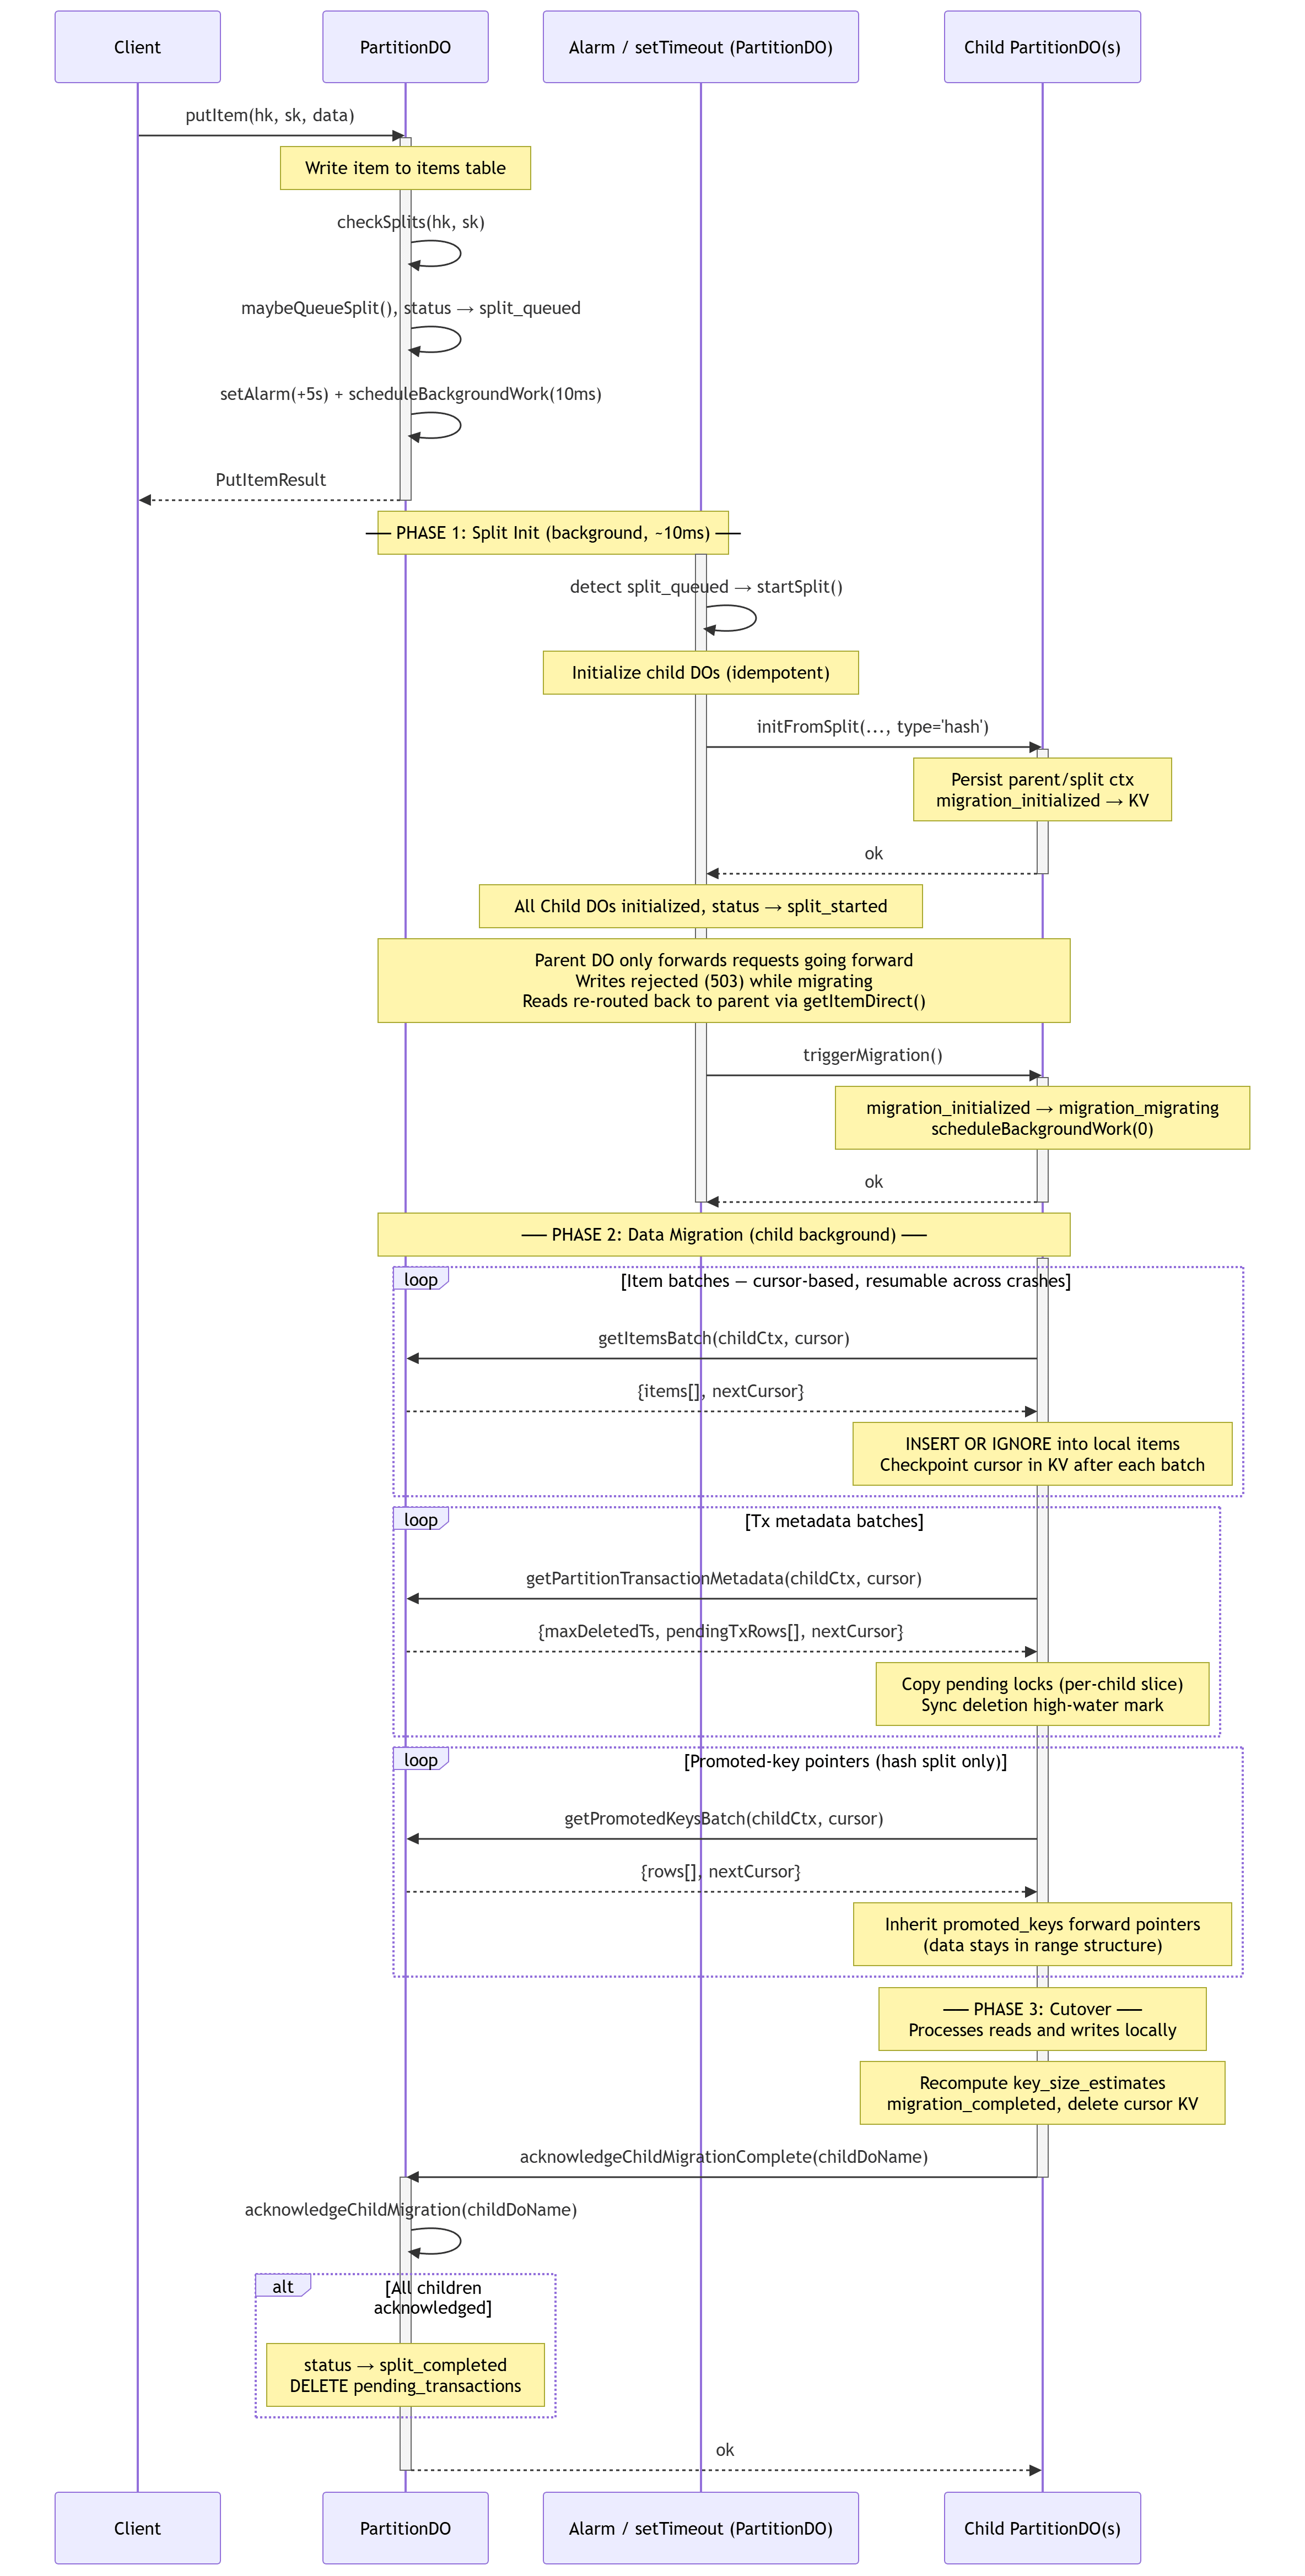
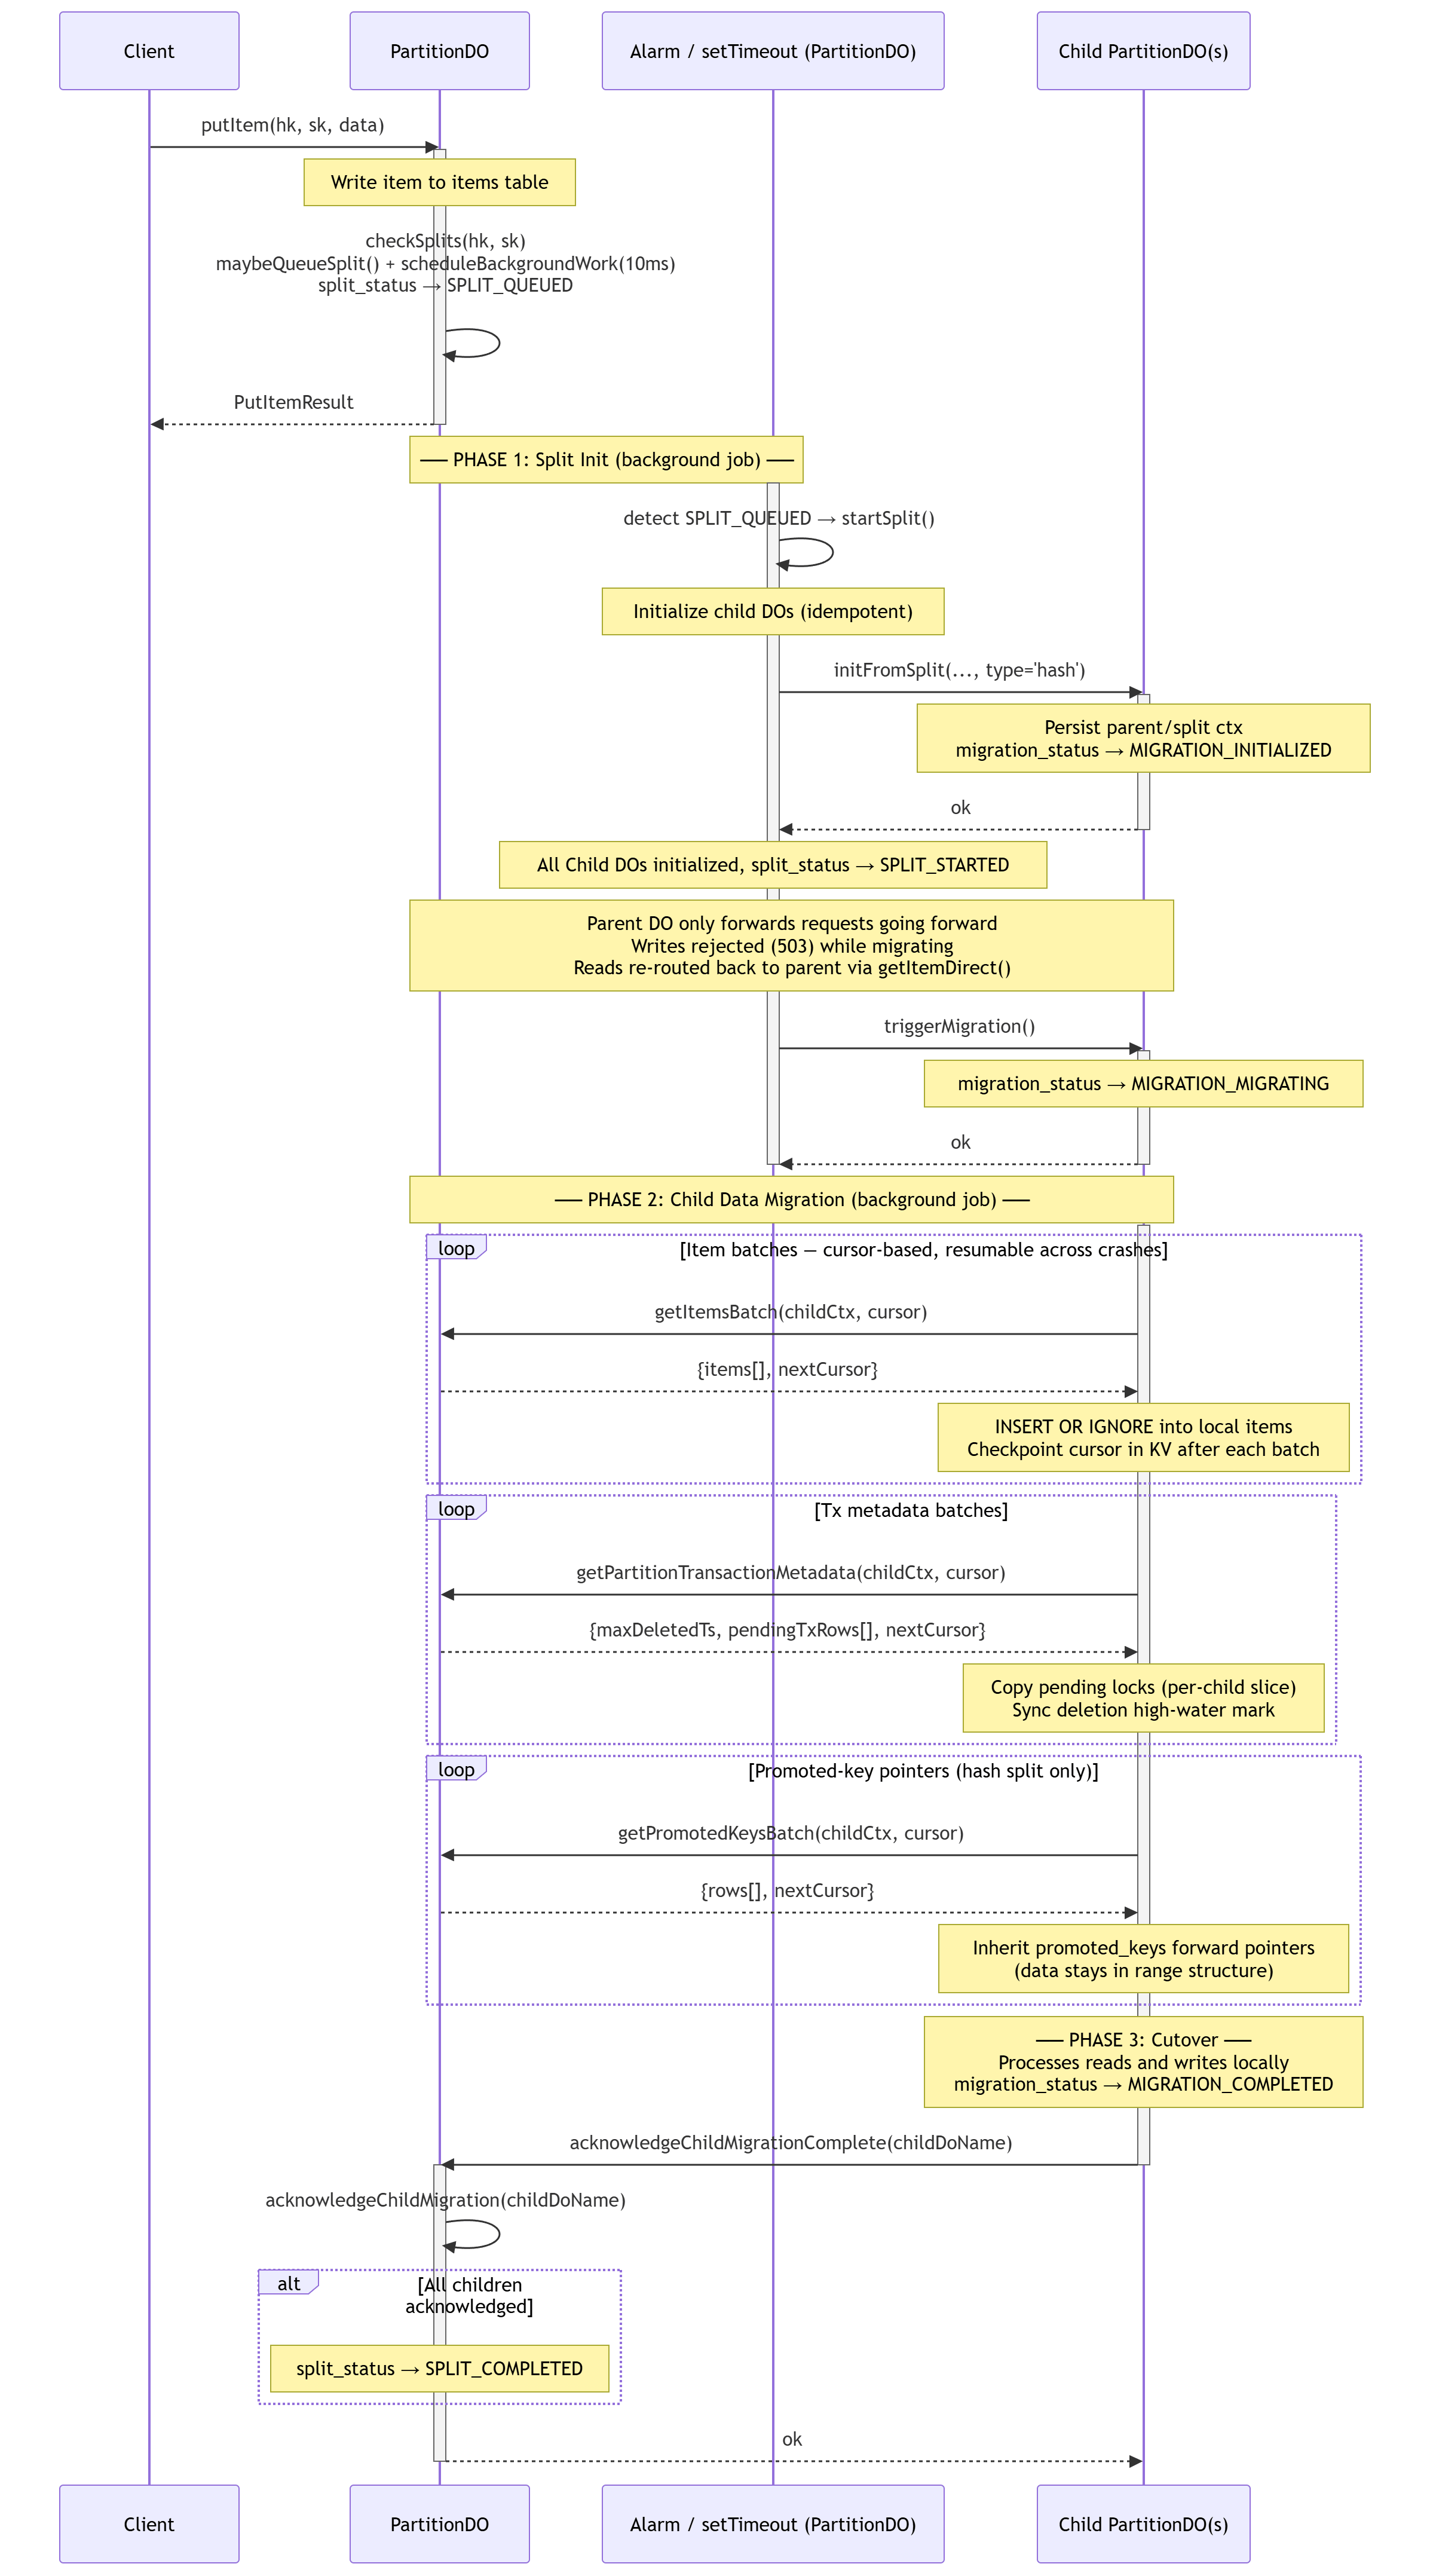
reword and sequence diagram explanations

diff --git a/src/_posts/2026-06-05-fokosdb.md b/src/_posts/2026-06-05-fokosdb.md
@@ -69,7 +69,7 @@ These tenets drive the trade-offs in the architecture and characteristics of the
 These goals drive the implementation and API provided.
 
 - Each item is identified by a **hash key** and a **sort key**.
-    - When items have the same hash key they should have different sort keys, and items having the same hash key are sorted alphabetically based on their sort key allowing range queries within the hash key.
+    - When items have the same hash key they should have different sort keys, and items having the same hash key are sorted lexicographically based on their sort key allowing range queries within the hash key.
 - Each item is less than `1MB` (default limit is `500KB`). For larger blobs I will implement integration with R2 (object storage).
 - Scalability is achieved by sharding across many different items, ideally with different hash keys to eliminate hot partitions as much as possible.
     - The system architecture optimizes for hash key sharding, even if you can have unlimited number of range keys within a hash key.
@@ -109,13 +109,13 @@ Before we dive into the architecture, let's recap our constraints.
 - Durable Objects do not (yet) run in all of Cloudflare's edge locations, so even if a Worker runs within 50ms of your location, the closest Durable Object location could be hundreds of milliseconds away. See <https://where.durableobjects.live> for a cool website showing Durable Object locations by region and city.
     - I cannot do anything about this for now, but this is the main latency overhead we will observe and try to optimize for.
 
-I love constraints because they force you to compromise something to benefit on something else. We have to think up front about these constraints to design a system that satisfies them as much as we can.
+I love constraints because they force you to compromise something to benefit on something else.
 
 Let's have some fun. 😉
 
 ## System architecture overview
 
-The following diagram contains everything that makes FokosDB work, except the distributed transaction coordinators that we will add later.
+The following diagram contains everything that makes FokosDB work, except the distributed transaction coordinators that we will mention later.
 
 It's simpler than it looks.
 
@@ -150,6 +150,10 @@ flowchart TD
 [Mermaid LIVE EDITOR](https://mermaid.live/edit#pako:eNqNlG9vmzAQxr-K5VeJRlCAhgSkVkqgaSrUdlKzv6WKrHABNLCRMeoy4LvPQGmjNenKC8B393senzhc4i0LANt4l7CnbUS4QGvXp0he88HDlxz44xCNRhcVy4ATETP6KSCCVGgx-Mb4L-DDrri7O2XZRXPkfUUO2UZQ12ikSl6wjCUs3COgjWMgFXzaUQt0fn5RLX5sViSPPNj7Pg1iDluR7Cvkug-Dz3JbcePt3slcJKtUbfj4Efgoq_es23b2ylbo8jjwHrI8gbzs8AP7XC67osu36qfkDwyOUbcnsbaVQ_CZ2swXToWu_uU4oSGoK69J94ZXveE946I1XL2Hqffe5ub6tnmE0e60yPX_RCTdas2_v_aw9gbr59HyAOSQunfdwL4dOOfQOOudUJ4lsaik0OEXPpr2KVZwyOMA24IXoOAUeEqaJS4b2McighR8bMvXAHakSISPfVpLLCP0J2NpT3JWhBG2dyTJ5arI5E8FbkxCTtKXKAcaAHdYQQW2jak1blWwXeLf2NZ0UzVmlqlb2libns3MqYL3MjxRNdMwJ2fWRJcllqbXCv7TGo9Vy5i1tdOJPrEMy1IwBLFg_KY7AtqToP4Lj_ZNag)
 
 </div>
+
+If the partitions look like a they form B+tree, it's because they kinda do.
+
+As we will explore below, there are internal nodes acting as routers only forwarding requests, and then leaf nodes that actually have the data and process the queries. There are some nuanced details about it, but the premise holds in general.
 
 ### Life of a FokosDB request
 
@@ -232,13 +236,25 @@ We achieve this by using many Durable Objects.
 
 At one extreme someone would put each item into its own Durable Object and get its full capabilities per item. This would be a big waste of resources though, and it would lead to many cold starts for items not accessed often.
 
-We still use many Durable Object partitions to scale out the throughput and storage of the database, but we pack many items in each partition to exploit warm live DOs allowing latencies of single digit milliseconds (same colo).
+We still use many Durable Object partitions to scale out the throughput and storage of the database, but we pack many items in each partition to exploit running live DOs allowing low latencies.
 
 Once enough items are written and the storage threshold for a split is breached, we schedule a split, initialize child partitions, migrate data to them, and only forward requests to them from that point on.
 
 > **NOTE:** Before diving into the actual implementation flows, I want to point out that the data migration process is the biggest complexity of the entire thing.
 >
 > It's a few hundreds of lines of code and a state machine to avoid races while handling item requests and transactions at the same time as data is being migrated. I am hoping that a platform native API for forking/cloning DOs will land soon and allow me to remove all this complexity.
+
+There are two state machines at play during a partition split:
+
+1. The parent partition being split tracks the split in `spit_status`:
+    1. Once we need a split, it sets `SPLIT_QUEUED` and starts a background job.
+    2. The background job attempts to initialize the child partition Durable Objects with the right context and only proceed if all of them are initialized. This is idempotent and can be retried if something fails.
+    3. Once all child partitions are initialized, status moves to `SPLIT_STARTED`. From this point forward, all item operation requests are forwarded to the child partitions.
+    4. Once all the child partitions migrated their data and acknowledged their completion, status moves to `SPLIT_COMPLETED` and can cleanup data no longer needed.
+2. The child partition created tracks the split in `migration_status`:
+    1. When the parent initializes the child DO, status is set to `MIGRATION_INITIALIZED` and waits for the signal from the parent to start migrating data.
+    2. Once notified to migrate data, it sets `MIGRATION_MIGRATING` and starts a background job that will start pulling data. During this status all requests are handled in the child partition: writes are rejected, whereas reads are re-routed back to the parent again and read from there, since we don't yet have the full data locally.
+    3. Once all data is migrated, migration status is set to `MIGRATION_COMPLETE`, it signals the parent as complete, and going forward processes all requests locally.
 
 The following sequence diagram showcases the full hash partition split (click for full size).
 
@@ -256,32 +272,30 @@ sequenceDiagram
       C->>P: putItem(hk, sk, data)
       activate P
       Note over P: Write item to items table
-      P->>P: checkSplits(hk, sk)
-      P->>P: maybeQueueSplit(), status → split_queued
-      P->>P: setAlarm(+5s) + scheduleBackgroundWork(10ms)
+      P->>P: checkSplits(hk, sk)<br/>maybeQueueSplit() + scheduleBackgroundWork(10ms)<br/>split_status → SPLIT_QUEUED<br/>
       P-->>C: PutItemResult
       deactivate P
 
-      Note over P,BG: ── PHASE 1: Split Init (background, ~10ms) ──
+      Note over P,BG: ── PHASE 1: Split Init (background job) ──
 
       activate BG
-      BG->>BG: detect split_queued → startSplit()
+      BG->>BG: detect SPLIT_QUEUED → startSplit()
       Note over BG: Initialize child DOs (idempotent)
       BG->>Ch: initFromSplit(..., type='hash')
       activate Ch
-      Note over Ch: Persist parent/split ctx<br/>migration_initialized → KV
+      Note over Ch: Persist parent/split ctx<br/>migration_status → MIGRATION_INITIALIZED
       Ch-->>BG: ok
       deactivate Ch
-      Note over BG: All Child DOs initialized, status → split_started
+      Note over BG: All Child DOs initialized, split_status → SPLIT_STARTED
       Note over P,Ch: Parent DO only forwards requests going forward<br/>Writes rejected (503) while migrating<br/>Reads re-routed back to parent via getItemDirect()
       BG->>Ch: triggerMigration()
       activate Ch
-      Note over Ch: migration_initialized → migration_migrating<br/>scheduleBackgroundWork(0)
+      Note over Ch: migration_status → MIGRATION_MIGRATING
       Ch-->>BG: ok
       deactivate Ch
       deactivate BG
 
-      Note over P,Ch: ── PHASE 2: Data Migration (child background) ──
+      Note over P,Ch: ── PHASE 2: Child Data Migration (background job) ──
 
       activate Ch
       loop Item batches — cursor-based, resumable across crashes
@@ -302,8 +316,7 @@ sequenceDiagram
           Note over Ch: Inherit promoted_keys forward pointers<br/>(data stays in range structure)
       end
 
-      Note over Ch: ── PHASE 3: Cutover ──<br/>Processes reads and writes locally
-      Note over Ch: Recompute key_size_estimates<br/>migration_completed, delete cursor KV
+      Note over Ch: ── PHASE 3: Cutover ──<br/>Processes reads and writes locally<br/>migration_status → MIGRATION_COMPLETED
 
       Ch->>P: acknowledgeChildMigrationComplete(childDoName)
       deactivate Ch
@@ -311,13 +324,13 @@ sequenceDiagram
       activate P
       P->>P: acknowledgeChildMigration(childDoName)
       alt All children acknowledged
-          Note over P: status → split_completed<br/>DELETE pending_transactions
+          Note over P: split_status → SPLIT_COMPLETED
       end
       P-->>Ch: ok
       deactivate P
 ```
 
-[Mermaid LIVE EDITOR](https://mermaid.live/edit#pako:eNqVVn9P40YQ_Soj_3OOLgkJuZBgtUiQUA5dD9IQ9aSWCi32YG9je327a0gOUd1f_QDVfcL7JJ1d2_lF0gIiAa9n5u28efvsR8cXATqeo_BzjqmPQ85CyZLrFOxPxqTmPs9YqmEATMEg5pjqbbdH5vbILGgu0uHltpiTMxN0HDOZwB4o1BOeoMg1uCuJta3gkUWPeBysgriKoqv4QePoaORBlutzjYkbTeug6BMwzRY1ma_5PdMIo2rlQtCVuEcJlPtJcrqiTwJa2L8KNLuNsYoeFRh-hP70Kou5ViVObSMiYfNb_CXHHG2YW6MgzXSu4Pvf_4Ayazefze1gI5FYsQS5b7uqBm9BEVaQx3jC_GkoRZ4Gn4Scuu1WolYwKXfgwahofYwqjxdDCnC16S1t10_OPPj-7Sv9wuj98dUptD2wu4bzlL7c2wV0Hf6ywGX4stwC4uSsWjo5o02Z0gFq9PVazwUJmgZZsvN8WybTwHMW8y9IjJvRDy8VuDzAJKO4VNfWsAaRB5wyfpIiKco2m8066HmGP76JmIrePJfBIHqObOqMUCqutNEg4ezZvYOvZz_cyr2jhNMZMQK84YsNFi19-HUhxqhRti-mWyaxDdcEH8dxqXLT6kr5LfKx_C31szpR24LdOtUBkcZzuBPygclAgTRHXWkFoeBpWK3bxqz8TcSfNDBqye22OjV4oP0glE2noY0cI7OlGiQLE2kkYo5MwRfccwYhWjEOuaRi7vNRacnDEOXHikz35dPZPYDlnfX97jhFrdqr57WyaLS-i_2187TvwZBcCBa9glvoeXmy_uNILbFjITIwpFKipo5IDV-_gZ9LJWTjlikjE0mHPzGWRQWkUAp8SdJHVdUom7VeU45InZhqxZYGelYvK9ZWUwqLocYerSv-_kcdUpzpgY18Wo1cH9X5xdXpeAKXYzg_u7gcn5KmSSax8Flc-Ksdz8D4aUZ61CU2hdFhAnanqQ4xHhUdVziYBkuiLCuTGSSomTH7ipwdHS8eHxPJUmVYFunHMvWlHCRsNsSYfC2YqDpktB0S2mQ2Fg8vZ2YgsnmVagiZkrVlKBuFMlTMfaxZcq7mqU-yIzijnIiHUeOBGV4SJqe7GRmRDRJg0Jgi4RhuydPANUZYGIj1hdoulsrsDzh_nTzkazg4TyMkz4GsRLuhvarKkhabtiy4drTkeXPji0CzC5EuZe7rXGJtKw_rYGtHskMDyLW9V6xbEOraR6WsBxqDY2kAD4UpWsnG8-2lx-iLhF48EKiBG0V2dEMWyxMak9p4ZJhAq5x6MVOsFG-eHStuZAdB9pCKhxiDEO1TYWEgg7JKMZWhuGDJkoMN39r97jP6H5St1Vms7WPK3iO3X00Pto_avNZsPr0WPFh-hqc_n05Oq-Nwo5dHU61NdkNtW72a2nPqTih54HikD6w7CcqEmUvn0cRfOzrCBK8dj_4N8I6ZtyXnOn2iNHrb_E2IpMokbw4jx7tjsaKrPCMRVu_Ii1XiIEA5IBfXjtfp9A9tFcd7dGaO1-62mu324UGv1T3o9_u9Xr_uzB2v0W0dNHu91uG7_j7d2-_1n-rOFwvcbu4fdjsH_YNe-127t9856Dz9CxL-1dY)
+[Mermaid LIVE EDITOR](https://mermaid.live/edit#pako:eNqVVn9P40YQ_Soj_3OOmkB-EGitFok4aWodhFzI9aQrFdrYg-2L7XV315AcQrq_-gGq-4T3STq7tkM4gg4QgXg9O2_nzZtn31k-D9ByLIn_FJj5OIxZKFh6mYH5yZlQsR_nLFPgApPgJjFmatftqb491Qsq5tnwfFfMYKyDThImUtgHiWoep8gLBfbWxsZO8MigR3ESbIPYkqLreLd1fDx1IC-UpzC1o2UTJH0CptgmJ_NVfMMUwrRemXC64jcogPZ-EDFd0ScFxc1_CYotEqyjpyWGH6G_vMiTWMkKp_HrQuwfp2y9wHcFFmhu2g34CSQFB0WCA-YvQ8GLLPjAxdLutFNZbpI69EoqpgoJ3_79Dy6mp9786t370fvR0EQ8oBO868C0LHGGskg2zQhwu7gd5TUHYwe-ff1CvzD94-RiBB0HzDnBy-iPvdicED7xRaOKfci1yT8Y10uDMZ1I5w1Qoa8eHd3UQmUJVZHx9Ex6p8aOWRJ_RqJV93d4LsGOA0xzistU4xGWGzkQ047fBU_LtHt7e01Q6xx_exMxGb152ms3eoqs80xRyFgqLTTC2Td9AF-tylbGNAhaZdudOfPGs5O5dz658ibe3Ds59T6Ohhv9Ra2KDL7c0ZRdp9DBJ0lSCVsXHm_YCEhWu5VxMT-ZzR9wt1tsyjLlUDbgWbKGay5umQgkCD3jUkkIeZyF9bop1uheR3yiJmIAdr_da8AtnQqhIiILTeQMmUnVIp3oSK0ZPSslh3ATMwjRqHMYC0pmP22fEnEYojirCbZf3rEfNKX6Nhm_uiVbi1rcz1H7aHq6Tt03chjYlPOKOXrATzjPQbNGhCoyDKrsy1fwCyG5aC2Y1GoQNO6pNiNKILiU4AvSO8o6R1WwMaiqB3Kgs9lmrly1alYZG9tbSlOh4u6M3_31dxMyXCnXRN5vRz7uhTe5GM3mcD4Dbzw5n41IuqSDhPssKZ3T6MXVTpmT4FSFTWHw9k9g14ryEOtRWXGNg1nwQJRhZb6CFBXTNl6T80zFmwfDXLBMapZ5dlZtfSkHKVsNMSEzC-ayCTkdh5Q_X8347cuZcXm-rrdqQpbkZzmKVmlvMol9LJ3_Yp35JD2C07qJ4jBq3TLNS8rE8nlGpuR9BBi0lkg4mlsyMrC1-5WWYQa_8RxL1e63uH6dPMRrOPCyCMlUIK_QruissvaczaENC7ZpLQ30WtsfUO9CpEtR-KoQ2NjJw2OwR2PZowYUytwr1w0IVe2jlMbktIMxGs7b0vWMZJP1S1zfPT-bno6M925ZjGGWZj7jtwkGIRpX2PiBy9NcC6qkecgnLH0o6jszev41ZfoDlJ3ZWaLM48XcI3_e3h7s7h1hPPPU2ap9qyHfiWSnzVIRVtMKRRxYDrUVm1aKImX60rrT8ZeWijDFS8uhrwFeM_1aY11m97SNXv8-cp7WO8lWw8hyrlki6arISTv1S-tmlSoNULhkwMpy-r1e12SxnDtrZTmd3i977XbnsN856B_1Dztduru2nNZBt7131Dk86NNar9_r9A_um9Zng9zZ67U7nW77oN0-6P58dNS9_x_mr6kB)
 
 </div>
 
@@ -325,107 +338,31 @@ A very similar flow happens when a range partition is split into child partition
 
 ### Hash key promotions
 
-The hash key promotion is a special kind of split where we move all the items of a specific hash key to its own Durable Object since it's consuming a big chunk of storage in a hash partition and if that hash key continues to grow even a hash split will not help since all those items will go along with their hash key.
-Therefore we make a root range partition so that it can execute range partition splits over its sort keys.
+The hash key promotion is a special kind of split where we move all the items of a specific hash key to its own Durable Object because it's consuming a big chunk of storage in a hash partition.
+If that hash key continues to grow, even a hash split would not help, since all those items would move along with their hash key.
+Therefore, we make a root range partition that can execute range partition splits over its sort keys in the future.
 
-The process for the hash key promotion shares some aspects with the normal split flow shown above, but with some key differences.
-Firstly, it only involves a single data partition.
-In addition, it requires some local state in the hash partition tracking which hash keys have been promoted into their own root range partitions used for forwarding requests for that hash key.
+For each hash key stored in a hash partition we track "estimated size bytes" which is updated on every write operation.
+After each write operation, we compare this estimated size against the configured threshold, and if it's breaching we schedule a promotion.
 
-The full sequence diagram for the hash key promotion is shown below (click for full size):
+The process for the hash key promotion shares a lot with the normal split flow shown above.
+One difference is that it only involves a single new data partition being created, and the parent partition has to track which hash keys have been promoted into their own root range partitions so that it can forward requests for that hash key.
 
-![FokosDB hash key promotion sequence diagram](/articles-data/2026-06-05-fokosdb/mermaid-hash-key-promotion.png)
+There are two state machines at play during a hash key promotion:
 
-<div style="display: none;">
+1. The parent partition being split tracks the promotion status "per hash key":
+    1. Once we need a hash key promotion, the status for that hash key is set to `PROMOTION_QUEUED` and starts a background job.
+    2. The background job attempts to initialize the new root range partition Durable Object with the right context and only proceeds when initialized. This is idempotent and can be retried if something fails.
+    3. The background job will ensure there are no hash splits in-progress (`SPLIT_STARTED` or `SPLIT_QUEUED`) and that the hash key doesn't have a pending transaction. We retry later if needed.
+    4. Once the new partition is initialized, status moves to `PROMOTION_PROMOTING`. From this point forward, all item operation requests for that hash key are forwarded to the new root range partition.
+    5. Once the new partition migrated their data and acknowledged their completion, status moves to `PROMOTION_COMPLETED` and can cleanup data no longer needed.
+2. The new root range partition created tracks the promotion in `migration_status` (same as any other split):
+    1. When the parent initializes the new DO, status is set to `MIGRATION_INITIALIZED` and waits for the signal from the parent to start migrating data.
+    2. Once notified to migrate data, it sets `MIGRATION_MIGRATING` and starts a background job that will start pulling data. During this status all requests are handled in the child partition: writes are rejected, whereas reads are re-routed back to the parent again and read from there, since we don't yet have the full data locally.
+    3. Once all data is migrated, migration status is set to `MIGRATION_COMPLETE`, it signals the parent as complete, and going forward processes all requests locally.
 
-```mermaid
-sequenceDiagram
-      participant C as Client
-      participant H as PartitionDO (Hash)
-      participant BG as Alarm / setTimeout PartitionDO (Hash)
-      participant RR as Root PartitionDO (Range)
-
-      C->>H: putItem(hk, sk, data)
-      activate H
-      Note over H: Write item locally<br/>UPDATE key_size_estimates for hk
-      H->>H: maybeQueuePromotion(hk, newKeyEst)
-      Note over H: est_bytes > maxSizeMb × RANGE_PROMOTION_FRACTION<br/>AND hk not already in promoted_keys
-      H->>H: INSERT promoted_keys (hk, status='queued')<br/>+ scheduleBackgroundWork(10ms)
-      H-->>C: PutItemResult
-      deactivate H
-
-      Note over H,BG: ── PHASE 1: Promotion Init (background, ~10ms) ──
-
-      activate BG
-      BG->>BG: detect status='queued' → startPromotion(hk)
-      Note over BG: Skip if a hash split is already split_queued/split_started
-
-      Note over BG: A. Resolve range root identity<br/>resolveRangePartitionContext(hk, start=null, end=null)
-      BG->>RR: initFromSplit(..., splitType='range')
-      activate RR
-      Note over RR: Persist parent hash ctx + splitType=range<br/>migration_initialized → KV
-      RR-->>BG: ok
-      deactivate RR
-
-      BG->>BG: transactionSync: check lock count
-      Note over BG: B. Atomic cutover queued → promoting<br/>ONLY if pending_transactions WHERE hk=? COUNT = 0
-      alt Pending locks exist → defer
-          Note over BG: retry on next background cycle
-      else No pending locks
-          BG->>BG: UPDATE promoted_keys SET status='promoting'<br/>#_promotedKeys.set(hk, 'promoting')
-          Note over H,RR: Parent DO only forwards requests going forward<br/>Writes rejected (503) while migrating<br/>Reads re-routed back to parent via getItemDirect()
-          Note over BG: C. Fire-and-forget
-          BG->>RR: triggerMigration()
-          activate RR
-          Note over RR: migration_initialized → migration_migrating<br/>scheduleBackgroundWork(0)
-          RR-->>BG: ok
-          deactivate RR
-      end
-      deactivate BG
-
-      Note over H,RR: ── PHASE 2: Data Migration (range root background) ──
-
-      activate RR
-      loop Item batches — all items for hk (start=null, end=null), cursor-based
-          RR->>H: getItemsBatch(childCtx=rangeCtx, cursor)
-          Note over H: promoted_keys[hk] must be 'promoting'<br/>getItemsBatchForRange(hk, null, null, cursor)
-          H-->>RR: {items[], nextCursor}
-          Note over RR: INSERT OR IGNORE into local items<br/>Checkpoint cursor in KV after each batch
-      end
-
-      loop Deletion watermark sync (no pending locks to copy — lock-free cutover)
-          RR->>H: getPartitionTransactionMetadata(childCtx=rangeCtx, cursor)
-          Note over H: Hash parent returns pendingTransactions=[]<br/>Only maxDeletedTs is synced
-          H-->>RR: {maxDeletedTs, pendingTransactions=[], nextCursor=null}
-          Note over RR: Sync deletion high-water mark only
-      end
-
-      Note over RR: ── PHASE 3: Cutover ──<br/>Processes reads and writes locally
-      Note over RR: Recompute key_size_estimates<br/>migration_completed, delete cursor KV
-
-      RR->>H: acknowledgePromotionComplete(hk)
-      deactivate RR
-
-      activate H
-      Note over H: UPDATE promoted_keys SET status='promoted'<br/>#_promotedKeys.set(hk, 'promoted')<br/>scheduleBackgroundWork(1000ms)
-      H-->>RR: ok
-      deactivate H
-
-      Note over H,RR: ── PHASE 4: GC (hash DO background) ──
-
-      activate BG
-      loop Batches of 1000 rows until drained
-          BG->>BG: DELETE FROM items WHERE hk=? LIMIT 1000<br/>DELETE FROM pending_transactions WHERE hk=?
-      end
-      BG->>BG: DELETE FROM key_size_estimates WHERE hk=?<br/>(once items fully drained)
-      deactivate BG
-```
-
-[Mermaid LIVE EDITOR](https://mermaid.live/edit#pako:eNqdV-tOG0cUfpWj7Q9sZe0ABmNWhco3MEqw6eIkapPIGnYHe-rdHWdmFnAQVX71AapIfaC-SZ6kZ2Yv9sI6QbUwssdnzvU73zl7b3ncp5ZjSfopppFHe4xMBQk_RGBeCyIU89iCRAq6QCR0A0YjVfbzQP98oQ8U41FvBJUBkbNqmWjnVMu2AyJCeAmSqjELKY_VM6-7rr7ucv7ogkuiKcUb2Z1u7fh44MAiVmeKhpXZ3AaJb58okuslnmI3RFEYZCdDjt_4DRWAd98Jht_wHULAPRIEy5-vxMvjNxe99rgPc7qcSPaZTqhULEQtEq65gNk80zVIPAjJ8or-GtOYXggecu2v8Sait6_osi9VtdQ4ap1cLbXWY1Rxd4mWzq_g33_AbQ9P-5MLd3Q-Gp-NhpMTt93VH4xv7WEPPYAIs0MCQYm_BBbBwhim_gR9lo_cOxte9t1xUQSSdCmiYnm09Un77m9VjYEXIL0Z9eOAdog3nwoeR_47LuaVne1QVle6UXnXgYsk-y6VcZDjxqfreS8J3u6cOvDt6xf8g4tB-7IPO6gqSx6cRUxB5So3b8Ofxnh6ZaUyN9M5zY46p-iYVu9TRT31OEb49tff-kyo9VqVFEiruJyzBbBrIDBDsIJcBOgXk3nizcEk0fwy-WJUU78saq2xXQdMFQ9uKAgNZxAa5szHpmMqAZ9Ifjdoz_Hf5ZGidyqrmlBHURwENtDIN5-qhfBd10FQMHWCIV5qtyr1et1O3B0vF_RoyxjfetomrvvUb63tggrJpNJ9iq4m6fDUHbxYU2p0mhBChiSj3Z5oLxgJENq-yfyrt5l-162lheLzEtxoR56UVKEJqUV4dLmMPAcQqN5ct-4cPASKKk96pw5txUPmgRcrc5qUzHiUtAWLpsbz0fD1b7riC0wsnk3WLEp4N-i7fWy-o1-gO3ozHMMRbOcZDJCtkkvGHwn0TidMm_DpNdrMXtmNp34KqsQSEP8RlhpW8Adv6QU0u0cDSfFi5mJibV1pnq6UxoqNf9kf5z2Rx75lgv9pkokibck6ErfB25pYtdz5gW0wkmADqZpHwVJT5S0RvsSwMN1SSZhy7W96biwa_tUSf2CrYkEq-9uNKtzOWEAhBVFaGBcbTgvWMCNaUmcHFM8AecMITKmhoh4TqKxS3Zznbh1OUKhGIr-G3uC9J-nT8SjBplMqzjMwF1WWtMzTttncCKtfinFu4N7tgu2y3inpnxQvkV_SX5owy4hZe10g5l0HejhRIU8DVNaYawXS75DzypeA8wXoIuFFhZFK-PblK_ZOYGZwNl6hUkpxNravkFzUroik_qN8mEmXIkB2tPKKhzDyu-ouISb8kCnYhGKn2CrvZ_OPEMbYxFcUHvdKwdQJF4auk6lvvE7-l9gzg1Nn-d6E_P6jbdq9ayQfNkMpneIjF85OhyPkIRYh_M3WkiTPuNXVhLjAPlOpbb0cvHoL5FqhHiz_LMl8ARyF6vRoQE2Zb7F0IiRiDhK5FirRI8rR3efxxdKUUJ_UrgWlGcVWN9Qnn2jjFbOeU0X01vZ_Kqa3yIwEkD9jgTydurlmQR69_5jwu2YmXLZMlNQfSz3OdXxFQK2KtC5rb9C8XkED1e-UUc8t7MM0xzM2ndVMosFkWhNnaWmKSgoN2kBCS8dacm4Cxe3Go1IactXMiVwHtwnbpptuuWqXejzElZqWbL-PZrsWNJmxk4BoBjk95NfGvCk98kTEbwPqT1dLcjdVsL6AbVgBfrDHP3PS4f73jEGXb8Ib9-DtJ5uwTl3pHjN4Js3uOXDaxa1cwxkn6LN4dbX0ms7tpJTKr0G7iAR9KwGXIhaALwiLihDPt4Re_3Ufc3eCjxspC6_tOa_Pzs_GRp3JyLrsD1akkvFTarLkIWulxBitcGzPbEBgdy2zcKqlc82yralgvuUoEVPbCjWJ6a_WvRb_YKkZDekHy8GPuJgR_dhifYge8Bo-ff7OeZjdxPRPZ5ZzTXDhsq14gRSVPT_np8g7PhVdvXtaTmO_eWC0WM69dWc5B_v11nbjYO-wsbPXbDVbLdtaWk7tcGe33mwdHDR2DputRnO3-WBbn43dnXqz0dpr7O0ebrda-4e7-42H_wBavixU)
-
-</div>
-
-The sequence diagrams provide a good overview but ultimately the source code is the source of truth and with AI/LLM agents these days you can just navigate and explore the code directly to fully internalize how this works.
+All the operations in the split or hash key promotion flows are idempotent and can be retried at any point in case any of the Durable Objects involved are restarted.
+This does mean there is a period with downtime for write operations while the new partitions are pulling their data from the parent partition.
 
 ## Distributed transactions
 
@@ -477,18 +414,17 @@ First a very short overview of how other databases in the industry do partitioni
 - [CockroachDB](https://dl.acm.org/doi/pdf/10.1145/3318464.3386134) (CRDB)
     - CRDB uses range-partitioning on the internal key-value item keys to divide the data into contiguous ordered chunks of size 64MB (Ranges), and these are the chunks replicated across storage nodes.
     - There is a two-level index ontops of the Ranges allowing for quick key lookups to find which Range to pick and is heavily cached on clients.
-- more of the same patterns...
 
-Most battle-tested databases use similar patterns, either simulating a tree of partitions and then heavily caching and optimizing access to an index of the tree, or they organize their items in order based on the keys and then split the global range into chunks each assigned to a storage partition and again heavily caching and encoding the range boundaries for fast lookups.
+Most battle-tested databases use similar patterns, either simulating a tree of partitions and then heavily caching and optimizing access to an index of the tree, or they organize their items in a global order based on the keys and then split that ordering into chunks, each assigned to a storage partition, and again heavily caching and encoding the range boundaries for fast lookups.
 
-My first instinct was to do something like BigTable, each tablet would be an item in [Workers KV](https://developers.cloudflare.com/kv/concepts/how-kv-works/) and each request would start reading from the root item which should in theory be heavily cached in the request's colo location, and then continue reading more items from Workers KV as necessary to resolve the final target Durable Object partition.
+My first instinct was to do something like BigTable, each tablet would be an item in [Workers KV](https://developers.cloudflare.com/kv/concepts/how-kv-works/) and each request would start reading from the root item which should in theory be heavily cached in the request's datacenter, and then continue reading more items from Workers KV as necessary to resolve the final target Durable Object partition.
 For a database with thousands of partitions this would require several MBs to be fetched by KV on every request (in-memory cache can slightly help), and it would be quite slow eventually for larger databases.
 
-Any other range based splitting also has a memory issue in our case since even though encoding text into Perkle/Patricia trees would save a lot of storage, with thousands of these keys it would still be several MBs.
+Any range based only splitting also has memory issues in our case, since, even though encoding text into Perkle/Patricia trees would save a lot of storage, with thousands of these keys it would still be several MBs.
 
 ### FokosDB encoded topology
 
-**NOTE:** This is still work-in-progress and not merged in the code. I do quite like the simplicity of the hash partition encoding, but I might change how I encode the range partition trees if I come up with a better approach.
+**NOTE:** This encoding and caching layer is still work-in-progress and not merged in the code. I do quite like the simplicity of the hash partition encoding, but I might change how I encode the range partition trees if I find a better approach.
 
 FokosDB uses a hybrid topology as described in [the architecture section](#system-architecture-overview), with hash partitions structured in a tree-layouts based on the hash keys, and the range partitions based on the sort key.
 
@@ -639,7 +575,7 @@ The chart has 4 distinct segments:
 2. Then a few minutes of stable low latencies between 30-50ms for both operations.
 3. The big spike in the middle is due to the partition splits, when some requests were queued up during the migration of data.
 4. The post-split latencies are low again but more elevated than pre-split, which makes total sense, since now we are doing two hops for each call. Remember, in this load test I did not have the topology caching enabled yet.
-    - That spike around 500ms was a transient timeout.😅
+    - That spike around 500ms was an unforunate transient timeout.
 
 Overall, not bad, and this is entirely unoptimized yet.
 